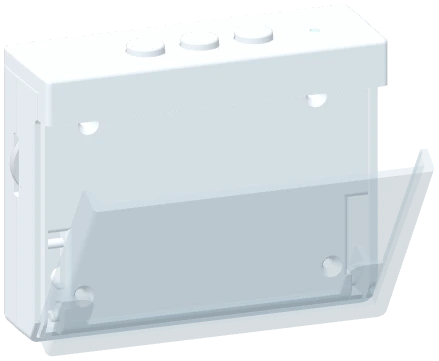
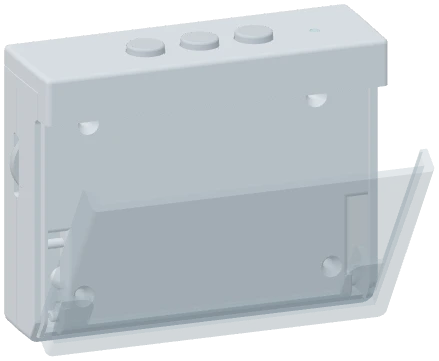
Stack the guide viewer and clarify player controls

diff --git a/player3/guide/index.html b/player3/guide/index.html
@@ -11,7 +11,7 @@
   <link rel="stylesheet" href="https://fonts.googleapis.com/css2?family=Noto+Sans+KR:wght@400;500;700&display=swap">
 <link rel="stylesheet" href="https://cdn.jsdelivr.net/gh/orioncactus/pretendard@v1.3.9/dist/web/static/pretendard.css">
   <link rel="stylesheet" href="../player-header.css">
-  <link rel="stylesheet" href="guide.css?v=plain-player">
+  <link rel="stylesheet" href="guide.css?v=viewer-layout">
 </head>
 <body>
   <a class="skip" href="#main">본문으로 건너뛰기</a>
@@ -26,7 +26,7 @@
       </div>
     </div>
     <nav class="contents" aria-label="목차">
-      <a href="#setup">처음 설정</a>
+      <a href="#setup">사용 순서</a>
       <a href="#play">피스 넣기</a>
       <a href="#controls">버튼 조작</a>
       <a href="#status">LED와 충전</a>
@@ -36,24 +36,26 @@
 
   <main id="main" class="shell">
     <section class="hero" aria-labelledby="title">
-      <div class="hero-copy">
-        <h1 id="title">네모 플레이어 사용법</h1>
+      <h1 id="title">네모 플레이어 사용법</h1>
+      <div class="demo-viewer">
+        <button class="demo-stage" type="button" id="demo-stage" aria-label="플레이어에서 커버 열기" disabled>
+          <img class="demo-product" src="images/cad-front.webp" alt="">
+          <img class="demo-loose-card" src="images/card.webp" alt="" hidden>
+          <canvas class="demo-canvas" aria-hidden="true" hidden></canvas>
+          <span class="demo-callout" aria-hidden="true" hidden>재생 버튼</span>
+          <span class="demo-callout" aria-hidden="true" hidden>상태 LED</span>
+          <span class="demo-callout" aria-hidden="true" hidden>투명 전면 커버</span>
+          <svg class="demo-arrows" aria-hidden="true" hidden><path/><path/><path/></svg>
+        </button>
+        <p class="demo-rotate-hint" hidden>드래그해서 돌려보세요.</p>
+      </div>
+      <div class="demo-controls">
         <p id="demo-instruction" class="demo-instruction" aria-live="polite">투명 전면 커버를 열어보세요.</p>
         <div class="demo-actions">
           <button class="primary-link" type="button" id="demo-next" hidden>커버 열기</button>
           <button class="demo-reset" type="button" id="demo-reset" hidden>처음부터</button>
         </div>
-        <p class="demo-rotate-hint" hidden>드래그해서 돌려보세요.</p>
       </div>
-      <button class="demo-stage" type="button" id="demo-stage" aria-label="플레이어에서 커버 열기" disabled>
-        <img class="demo-product" src="images/cad-front.webp" alt="">
-        <img class="demo-loose-card" src="images/card.webp" alt="" hidden>
-        <canvas class="demo-canvas" aria-hidden="true" hidden></canvas>
-        <span class="demo-callout" aria-hidden="true" hidden>재생 버튼</span>
-        <span class="demo-callout" aria-hidden="true" hidden>상태 LED</span>
-        <span class="demo-callout" aria-hidden="true" hidden>투명 전면 커버</span>
-        <svg class="demo-arrows" aria-hidden="true" hidden><path/><path/><path/></svg>
-      </button>
       <audio id="demo-audio" src="audio/card-demo.mp3" preload="none"></audio>
     </section>
 
@@ -101,6 +103,16 @@
       <div class="download">
         <h3>처음 듣는 피스라면</h3>
         <p>저장된 음원이 없으면 Wi-Fi에 연결하고 NEMOZ 앱에서 다운로드를 시작하세요. 저장이 끝나면 재생되고, 이후에는 오프라인에서도 들을 수 있어요.</p>
+        <dl class="piece-types">
+          <div>
+            <dt>시리즈 피스</dt>
+            <dd>시리즈 음원을 미리 받아 두고, 꽂은 피스에 해당하는 한 곡을 재생해요.</dd>
+          </div>
+          <div>
+            <dt>앨범 피스</dt>
+            <dd>앨범 단위로 다운로드하고 앨범 전체를 재생해요.</dd>
+          </div>
+        </dl>
       </div>
     </section>
 
@@ -114,16 +126,16 @@
           <figcaption>윗면 <span>전면 커버가 나를 향한 상태</span></figcaption>
           <div class="top-photo">
             <img src="images/cad-top.webp" alt="왼쪽부터 이전 버튼, 재생·일시정지 버튼, 다음 버튼, 상태 LED" loading="lazy">
-            <span class="button-callout" style="--x:33%" aria-hidden="true">이전</span>
-            <span class="button-callout" style="--x:49%" aria-hidden="true">재생</span>
-            <span class="button-callout" style="--x:64%" aria-hidden="true">다음</span>
-            <span class="button-callout" style="--x:83%" aria-hidden="true">LED</span>
+            <span class="button-callout" style="--x:33%" aria-hidden="true"><span class="button-number">1</span></span>
+            <span class="button-callout" style="--x:49%" aria-hidden="true"><span class="button-number">2</span></span>
+            <span class="button-callout" style="--x:64%" aria-hidden="true"><span class="button-number">3</span></span>
+            <span class="button-callout" style="--x:83%" aria-hidden="true"><span class="button-number">4</span></span>
           </div>
           <dl class="top-labels">
-            <div><dt>이전</dt><dd>이전 곡</dd></div>
-            <div><dt>재생 / 일시정지</dt><dd>짧게 누르면 재생 또는 일시정지, 길게 누르면 랜덤 재생 켜기 또는 끄기</dd></div>
-            <div><dt>다음</dt><dd>다음 곡</dd></div>
-            <div><dt>상태 LED</dt><dd><a href="#status">색으로 상태 확인</a></dd></div>
+            <div><dt><span class="button-number" aria-hidden="true">1</span>이전</dt><dd>이전 곡으로 이동해요.</dd></div>
+            <div><dt><span class="button-number" aria-hidden="true">2</span>재생 / 일시정지</dt><dd>짧게 눌러 재생하거나 멈춰요. 길게 눌러 랜덤 재생을 켜거나 꺼요.</dd></div>
+            <div><dt><span class="button-number" aria-hidden="true">3</span>다음</dt><dd>다음 곡으로 이동해요.</dd></div>
+            <div><dt><span class="button-number" aria-hidden="true">4</span>상태 LED</dt><dd><a href="#status">LED 색상별 의미 보기</a></dd></div>
           </dl>
         </figure>
         <div class="side-maps">
@@ -216,6 +228,6 @@
   </dialog>
   <script defer src="https://cdn.jsdelivr.net/npm/three@0.128.0/build/three.min.js"></script>
   <script defer src="guide.js?v=card-demo"></script>
-  <script defer src="card-demo.js"></script>
+  <script defer src="card-demo.js?v=viewer-layout"></script>
 </body>
 </html>

diff --git a/player3/guide/guide.css b/player3/guide/guide.css
@@ -32,18 +32,19 @@ p, h1, h2, h3, figure, ol, dl, dd { margin: 0; }
   .site-head{padding:0}
   .contents{padding-inline:10px}
 }
-.hero { margin-top: 20px; display: grid; grid-template-columns: minmax(0,1fr) minmax(0,1.45fr); gap: 16px; align-items: center; }
+.hero { width: min(100%, 960px); margin: 24px auto 0; }
 .hero h1 { font-size: 22px; font-weight: 600; line-height: 1.35; }
-.hero-copy { padding: 16px 0; }
-.demo-instruction { color: var(--muted); margin-top: 8px; }
-.demo-actions { display: flex; flex-wrap: wrap; align-items: center; gap: 8px 12px; margin-top: 14px; }
+.demo-viewer { position: relative; margin-top: 10px; }
+.demo-controls { display: flex; align-items: center; justify-content: space-between; flex-wrap: wrap; gap: 8px 16px; padding: 12px 0; border-block: 1px solid var(--line); }
+.demo-instruction { color: var(--muted); }
+.demo-actions { display: flex; flex-wrap: wrap; align-items: center; gap: 8px 12px; }
 .primary-link { display: inline-flex; align-items: center; border-radius: 8px; padding: 11px 16px; color: var(--white); background: var(--ink); border: 1px solid var(--ink); font: 600 14px/1.25 Pretendard,system-ui,sans-serif; cursor: pointer; }
 .demo-reset { appearance: none; border: 0; padding: 9px 4px; background: transparent; color: var(--muted); font: inherit; font-size: 14px; cursor: pointer; }
-.demo-stage { display: grid; place-items: center; position: relative; width: 100%; height: clamp(225px,29vw,310px); padding: 0; border: 0; background: transparent; overflow: hidden; cursor: pointer; touch-action: manipulation; }
+.demo-stage { display: grid; place-items: center; position: relative; width: 100%; height: clamp(300px,49vw,490px); padding: 0; border: 0; background: transparent; overflow: hidden; cursor: pointer; touch-action: manipulation; }
 .demo-stage:disabled { cursor: default; }
 .demo-stage:focus-visible { outline-offset: -3px; }
 .demo-stage > [hidden], .demo-actions > [hidden] { display: none; }
-.demo-rotate-hint { margin-top: 8px; color: var(--muted); font-size: 13px; }
+.demo-rotate-hint { position: absolute; right: 0; bottom: 7px; color: var(--muted); font-size: 13px; pointer-events: none; }
 .demo-stage.has-model { touch-action: none; }
 .demo-stage.is-dragging { cursor: grabbing; }
 .demo-callout { position: absolute; left: 0; top: 0; z-index: 1; padding: 0 4px; background: var(--paper); color: var(--green); font: 600 12px/1.5 Pretendard,system-ui,sans-serif; white-space: nowrap; pointer-events: none; }
@@ -81,6 +82,7 @@ p, h1, h2, h3, figure, ol, dl, dd { margin: 0; }
 .download { margin-top: 14px; padding: 18px 20px; border-radius: 14px; background: var(--mist); }
 .download h3 { font-size: 16px; }
 .download p { margin-top: 6px; }
+.piece-types { display: grid; grid-template-columns: repeat(2, minmax(0, 1fr)); gap: 12px 20px; margin-top: 14px; }
 dt { font-weight: 750; }
 dd { color: var(--muted); font-size: .91rem; }
 .top-map, .side-maps figure { border: 1px solid var(--line); border-radius: 16px; background: var(--white); padding: 17px 20px; }
@@ -88,10 +90,12 @@ figcaption { font-weight: 800; }
 figcaption span { font-size: .83rem; font-weight: 500; color: var(--muted); margin-left: 7px; }
 .top-photo { width: min(100%, 380px); position: relative; margin: 14px auto 18px; padding-top: 36px; }
 .button-callout { position: absolute; top: 0; left: var(--x); transform: translateX(-50%); color: var(--green); font-size: 12px; font-weight: 700; text-align: center; white-space: nowrap; }
+.button-number { display: inline-grid; place-items: center; width: 21px; height: 21px; border-radius: 50%; background: var(--mist); color: var(--green); font-size: 12px; font-weight: 700; flex: none; }
 .button-callout::after { content: "↓"; display: block; line-height: 1; font-size: 16px; }
 .top-photo img { width: 100%; height: auto; }
-.top-labels { display: grid; grid-template-columns: 1fr 1.8fr 1fr 1fr; gap: 12px 18px; padding-top: 15px; border-top: 1px solid var(--line); }
-.top-labels dd { margin-top: 5px; }
+.top-labels { display: grid; grid-template-columns: minmax(0, 1fr) minmax(0, 1.6fr) repeat(2, minmax(0, 1fr)); gap: 12px 18px; padding-top: 15px; border-top: 1px solid var(--line); }
+.top-labels dt { display: flex; align-items: center; gap: 7px; }
+.top-labels dd { margin: 4px 0 0 28px; }
 .side-maps { display: grid; grid-template-columns: 1fr 1fr; gap: 12px; margin-top: 12px; }
 .side-body { display: grid; grid-template-columns: 78px 1fr; gap: 20px; align-items: center; margin-top: 14px; }
 .side-body img { max-height: 150px; margin-inline: auto; }
@@ -113,9 +117,8 @@ details p { color: var(--muted); padding-bottom: 14px; }
 .footer a { flex: none; }
 @media (max-width: 730px) {
   .shell { width: calc(100% - 32px); }
-  .hero { margin-top: 12px; grid-template-columns: 1fr; gap: 10px; }
-  .hero-copy { padding: 0; }
-  .demo-stage { height: clamp(215px,62vw,290px); }
+  .hero { margin-top: 16px; }
+  .demo-stage { height: clamp(260px,73vw,390px); }
   .buttons-photo > img { max-width: 144px; }
   .guide-section { margin-top: 22px; }
   .usage-steps > li{grid-template-columns:minmax(0,1fr) minmax(90px,35%)}
@@ -130,7 +133,8 @@ details p { color: var(--muted); padding-bottom: 14px; }
   .power-photo .power-caption span { font-size: 13px; }
   .power-photo > img { height: 91px; }
   .power-photo{flex-direction:column;gap:5px}
-  .side-maps, .top-labels { grid-template-columns: 1fr 1fr; }
+  .side-maps { grid-template-columns: 1fr 1fr; }
+  .top-labels { grid-template-columns: 1fr; gap: 10px; }
   .top-map, .side-maps figure { padding: 14px; }
   .side-body { grid-template-columns: minmax(29px, 32%) 1fr; gap: 9px; }
   .side-body img { max-height: 110px; }
@@ -141,7 +145,7 @@ details p { color: var(--muted); padding-bottom: 14px; }
 @media (max-width: 390px) {
   .contents { gap: 4px; }
   .contents a { padding-inline: 6px; font-size: .8rem; }
-  .side-maps { grid-template-columns: 1fr; }
+  .side-maps, .piece-types { grid-template-columns: 1fr; }
   .side-body { grid-template-columns: 55px 1fr; gap: 15px; }
 }
 

diff --git a/player3/guide/card-demo.js b/player3/guide/card-demo.js
@@ -138,12 +138,12 @@
     const scene = new THREE.Scene();
     const camera = new THREE.OrthographicCamera(-58, 58, 43, -43, 1, 400);
     camera.up.set(0, 0, 1);
-    scene.add(new THREE.HemisphereLight(0xffffff, 0x9bafbc, .8));
-    const key = new THREE.DirectionalLight(0xffffff, .75);
+    scene.add(new THREE.HemisphereLight(0xffffff, 0x9bafbc, .62));
+    const key = new THREE.DirectionalLight(0xffffff, .49);
     key.position.set(-75, -80, 135);
     scene.add(key);
 
-    const shell = new THREE.MeshStandardMaterial({color: 0xcbd0d5, roughness: .68, side: THREE.DoubleSide});
+    const shell = new THREE.MeshStandardMaterial({color: 0xc5cad0, roughness: .68, side: THREE.DoubleSide});
     const glass = new THREE.MeshPhysicalMaterial({
       color: 0x829ba8, roughness: .22, metalness: .12,
       transparent: true, opacity: .33, depthWrite: false,
@@ -178,7 +178,8 @@
     const portMaterial = new THREE.MeshStandardMaterial({color: 0x4b5058, roughness: .64, side: THREE.DoubleSide});
     const ledMaterial = new THREE.MeshStandardMaterial({color: 0x9cc6ca, roughness: .36, side: THREE.DoubleSide});
     for (const id of ['0', '1', '13', '16']) scene.add(mesh(id, shell));
-    for (const id of ['buttons', 'power']) scene.add(controlMesh(id, shell));
+    const buttons = new THREE.MeshStandardMaterial({color: 0xaab2ba, roughness: .68, side: THREE.DoubleSide});
+    scene.add(controlMesh('buttons', buttons), controlMesh('power', buttons));
     scene.add(controlMesh('wheel', wheelMaterial), controlMesh('usb', portMaterial), controlMesh('led', ledMaterial));
 
     // The front door swings around the lower horizontal edge of the CAD mesh.
